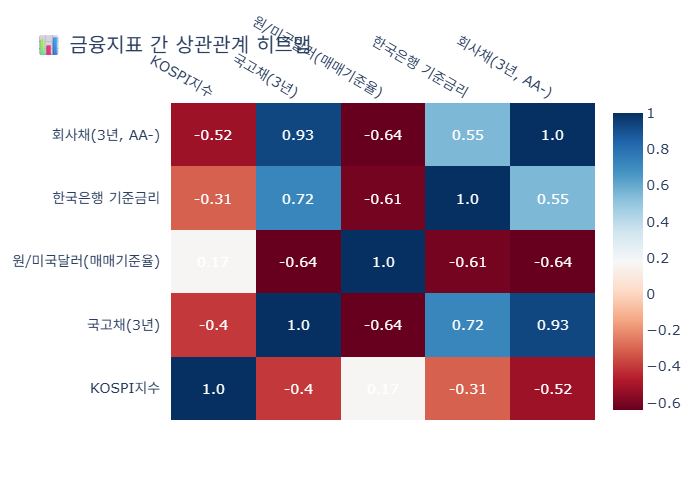
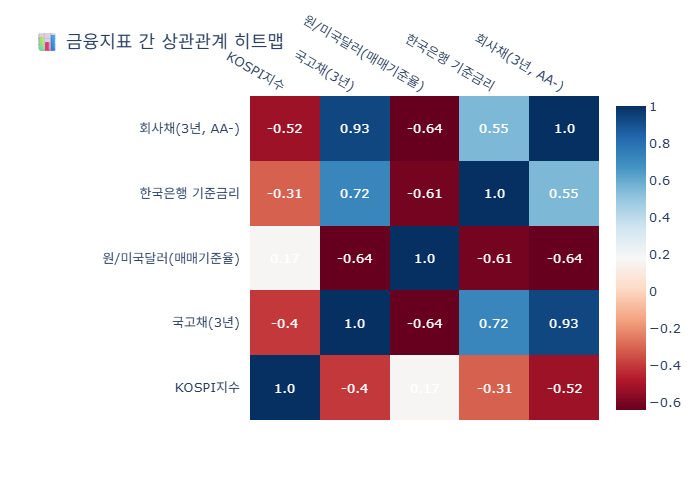
third

Changed region(s): [[0.0, 0.03, 0.99, 0.84], [0.93, 0.48, 0.96, 0.54]]

diff --git a/financial_relationships.py b/financial_relationships.py
@@ -30,12 +30,14 @@ def corr_heatmap(OUT_DIR, OUT1):
 
     # 레이아웃 개선
     fig.update_layout(
-        title="📊 금융지표 간 상관관계 히트맵",
-        width=900,
-        height=700,
-        font=dict(size=14),
-        margin=dict(t=80, l=120),
+    title="📊 금융지표 간 상관관계 히트맵",
+    width=1200,
+    height=800,
+    font=dict(size=13),
+    margin=dict(t=80, l=250),  # 왼쪽 여백 더 늘림
+    yaxis=dict(automargin=True)  # 자동 여백 적용
     )
+    fig.update_yaxes(tickangle=0)  # 0도: 수평
 
     fig.show()
     # 이미지 저장 (plotly는 .write_image 사용)
